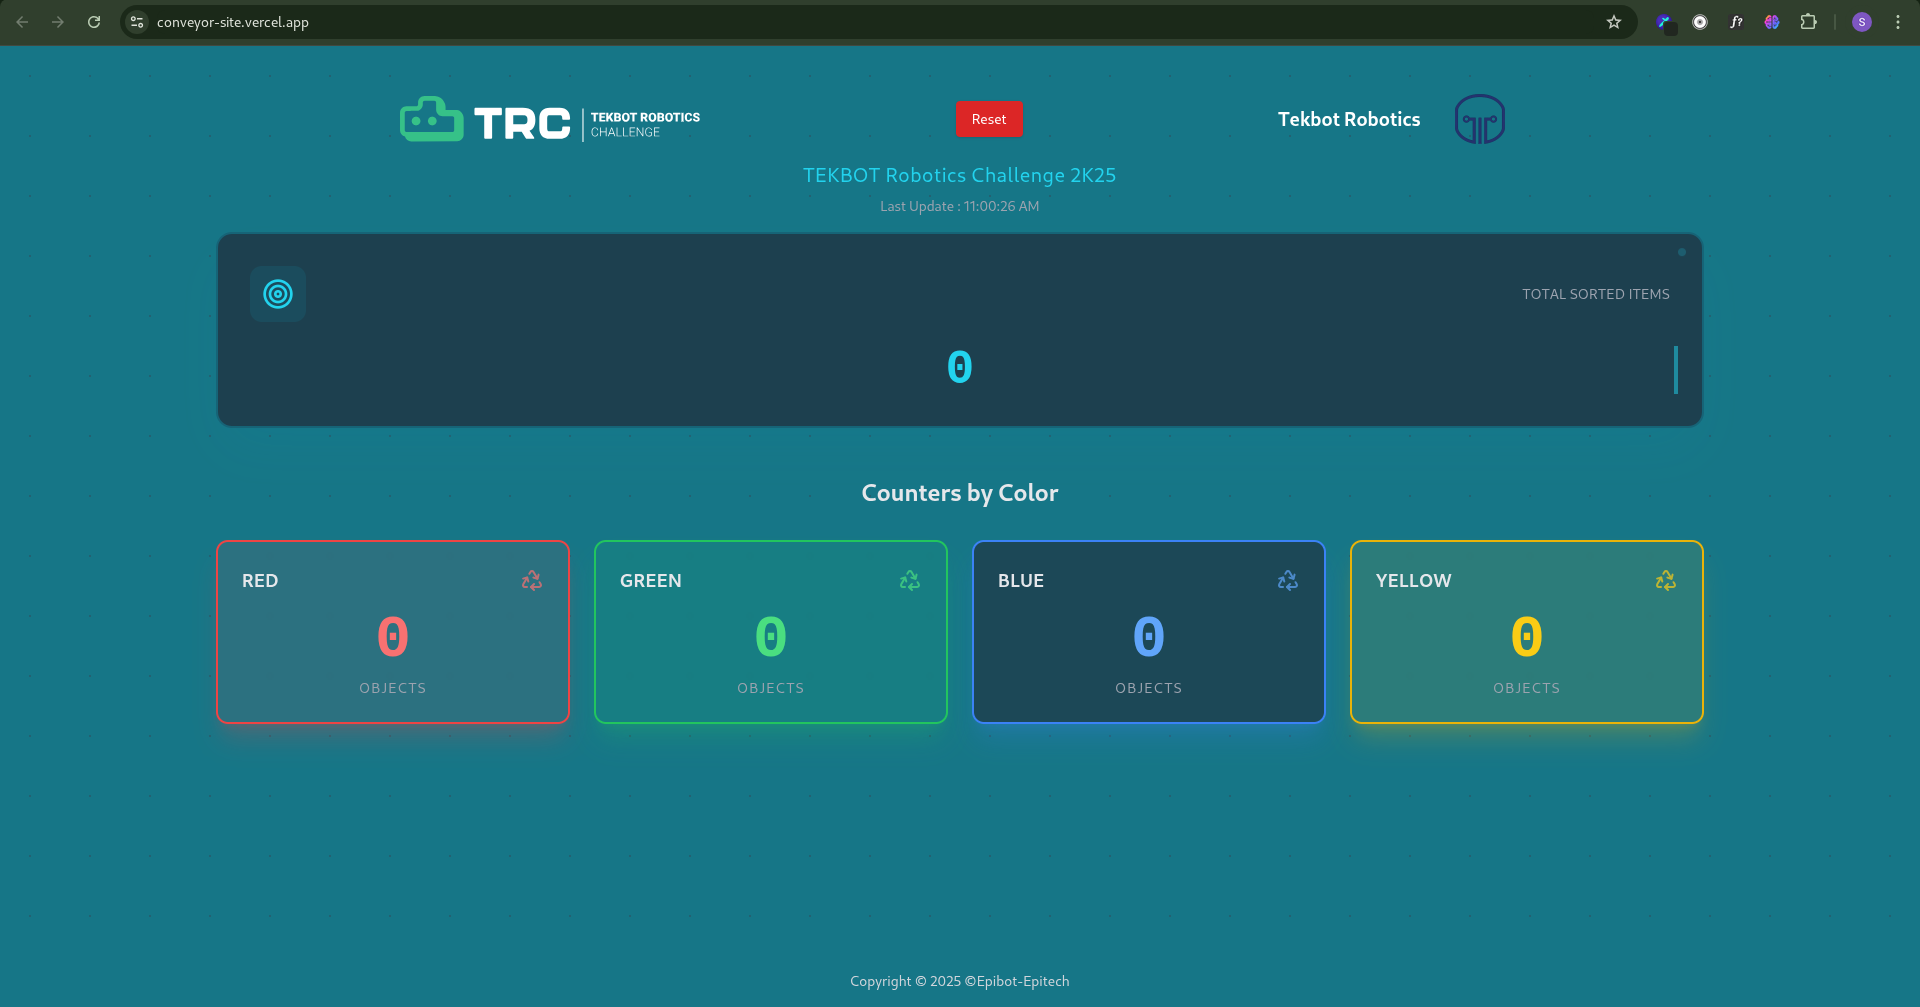
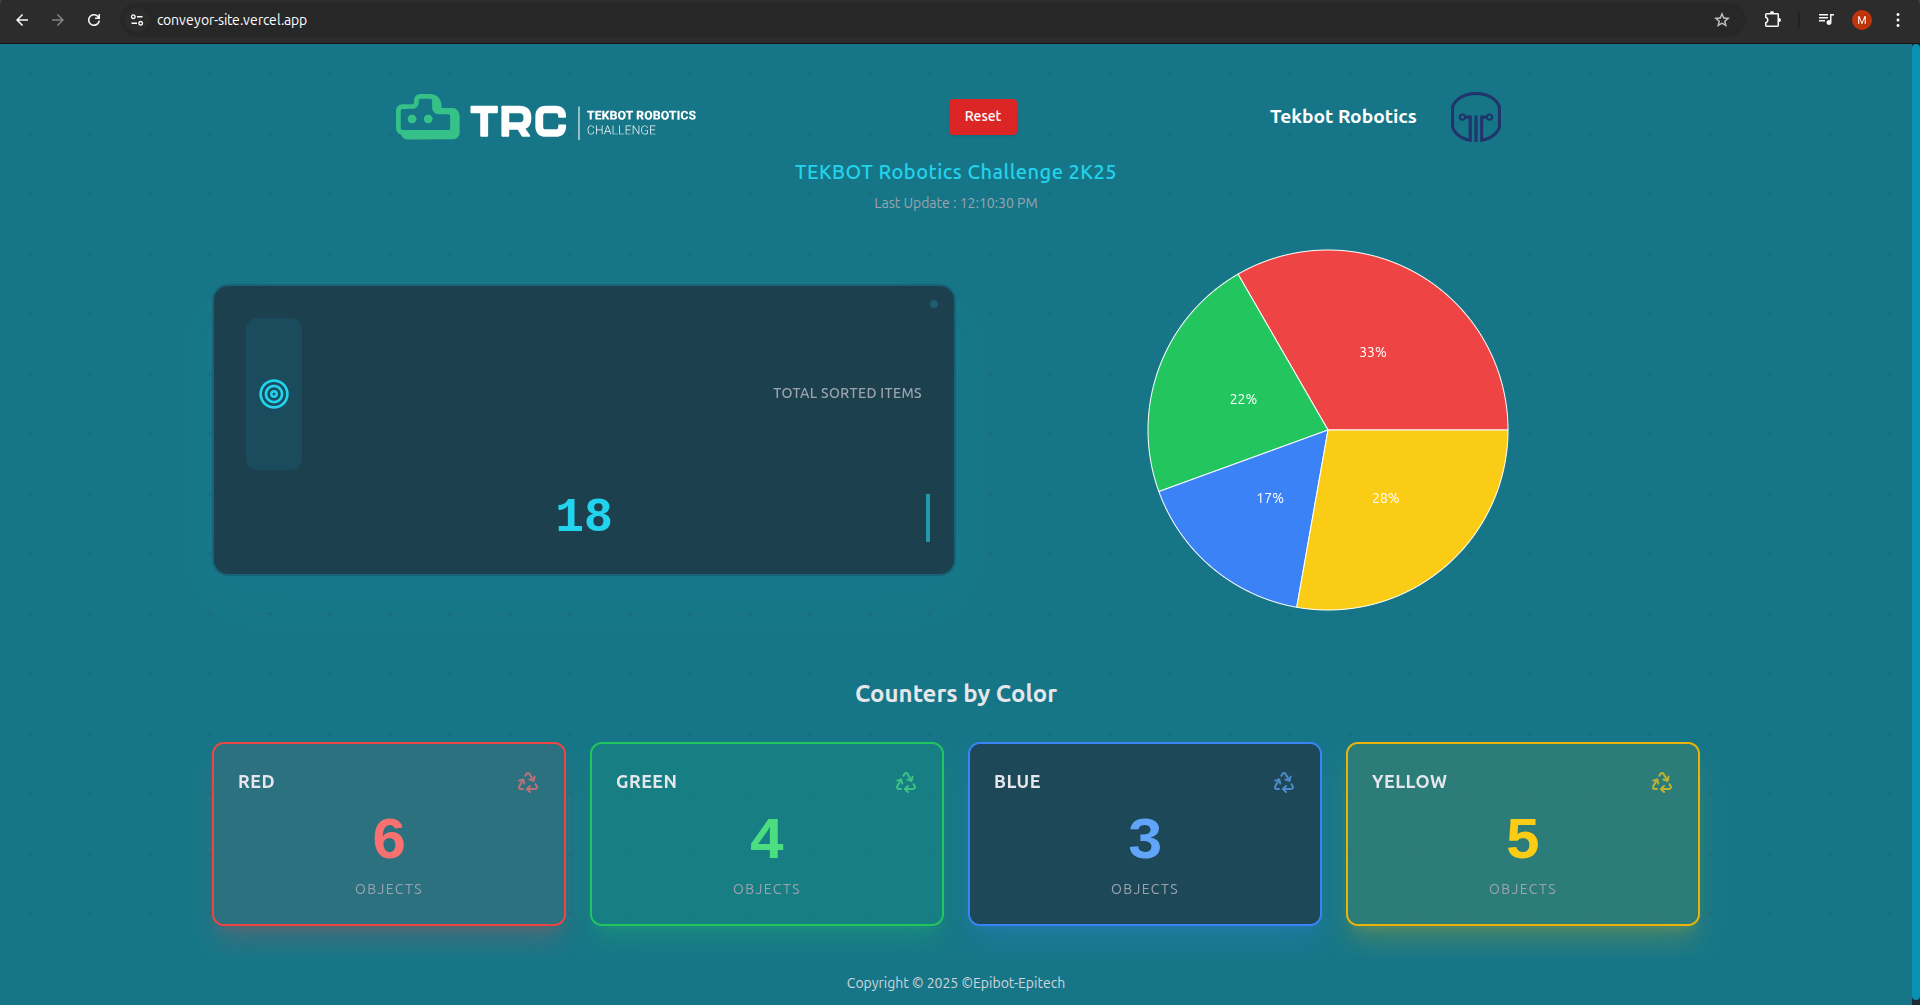
[Feat] : corrected the site web docs by adding the statics features docs

diff --git a/docs/week4/pole-it/conveyor-site-docs/introduction.md b/docs/week4/pole-it/conveyor-site-docs/introduction.md
@@ -19,6 +19,7 @@ The primary purpose of Conveyor-Site is to provide a user-friendly interface for
 - **`API Communication`**: The ROS2 node forwards the color information to the web dashboard via the `/api/data` endpoint.
 - **`Redis Synchronization`**: The backend uses Redis to store and synchronize the color counts in real time.
 - **`Real-Time Display`**: The dashboard updates instantly, showing the count of each color as colored cubes.
+- **`Real-Time Statistics`**: The dashboard updates instanly, showing the statics of each color with their percentages.
 
 ## `Main Features`
 
@@ -31,5 +32,7 @@ The primary purpose of Conveyor-Site is to provide a user-friendly interface for
 
 - **`Responsive Design`**: The user interface is designed to be responsive, ensuring a smooth experience across various devices and screen sizes.
 - **`Reset Functionality`**: Users can reset all counters directly from the interface.
+
+- **`Real-Time Statistics`**: Users can see the percentages of each color sorted directly from the interface.
 
 In summary, Conveyor-Site connects hardware (Arduino), middleware (ROS2), Redis, and a modern web dashboard to provide a complete, real-time view of the waste sorting process for the waste sorting system.
